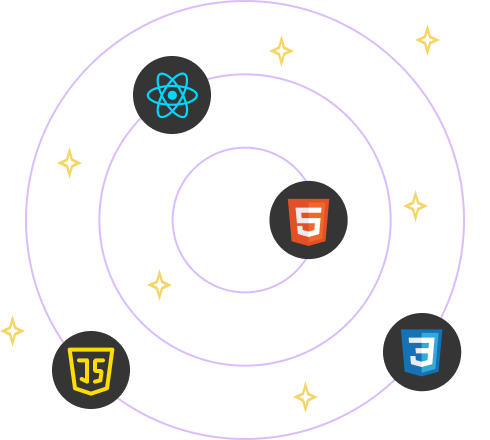
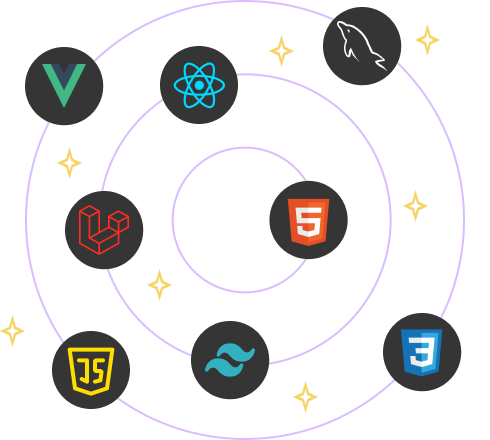
markup: new project, images

diff --git a/index.html b/index.html
@@ -232,6 +232,29 @@
                             </div>
                         </div>
                     </div>
+                    <div class="project-div">
+                        <div data-aos="zoom-in-right"><img class="full-img" src="images/projects/img-9.png"
+                            alt="epic-movie-quotes-website-wallpaper"></div>
+                        <div data-aos="zoom-in-left" class="text-box">
+                            <h3>Epic Movie Quotes</h3>
+                            <p>This is the big FullStack (Laravel + Vue) project which I built at the end of Redberry's bootcamp. 
+                                After finishing bootcamp I implemented new features like: Chats, List of the chats(sms), Add friend, Decline|Accept Friend request, Notifications of accepting & getting friend request</p>
+                            <div class="used-languages">
+                                <div><img src="images/projects/html-icon.png" alt="html icon"></div>
+                                <div><img src="images/projects/js-icon.png" alt="js icon"></div>
+                                <div><img src="images/projects/css-icon.png" alt="css icon"></div>
+                                <div><img src="images/projects/tailwind-icon.png" alt="tailwind-icon"></div>
+                                <div><img src="images/projects/vue-icon.png" alt="vue-icon"></div>
+                                <div><img src="images/projects/laravel-icon.png" alt="laravel-icon"></div>
+                                <div><img src="images/projects/mysql-icon.png" alt="mySql-icon"></div>
+                            </div>
+                            <div class="buttons">
+                                <a href="https://luksona2006.github.io/epic-movie-quotes"><button>VIEW PROJECT</button></a>
+                                <a href="https://github.com/Luksona2006/epic-movie-quotes-front"><button>VIEW CODE (FRONT)</button></a>
+                                <a href="https://github.com/Luksona2006/epic-movie-quotes-back"><button>VIEW CODE (BACK)</button></a>
+                            </div>
+                        </div>
+                    </div>
                 </div>
             </div>
             <div class="contacts">
